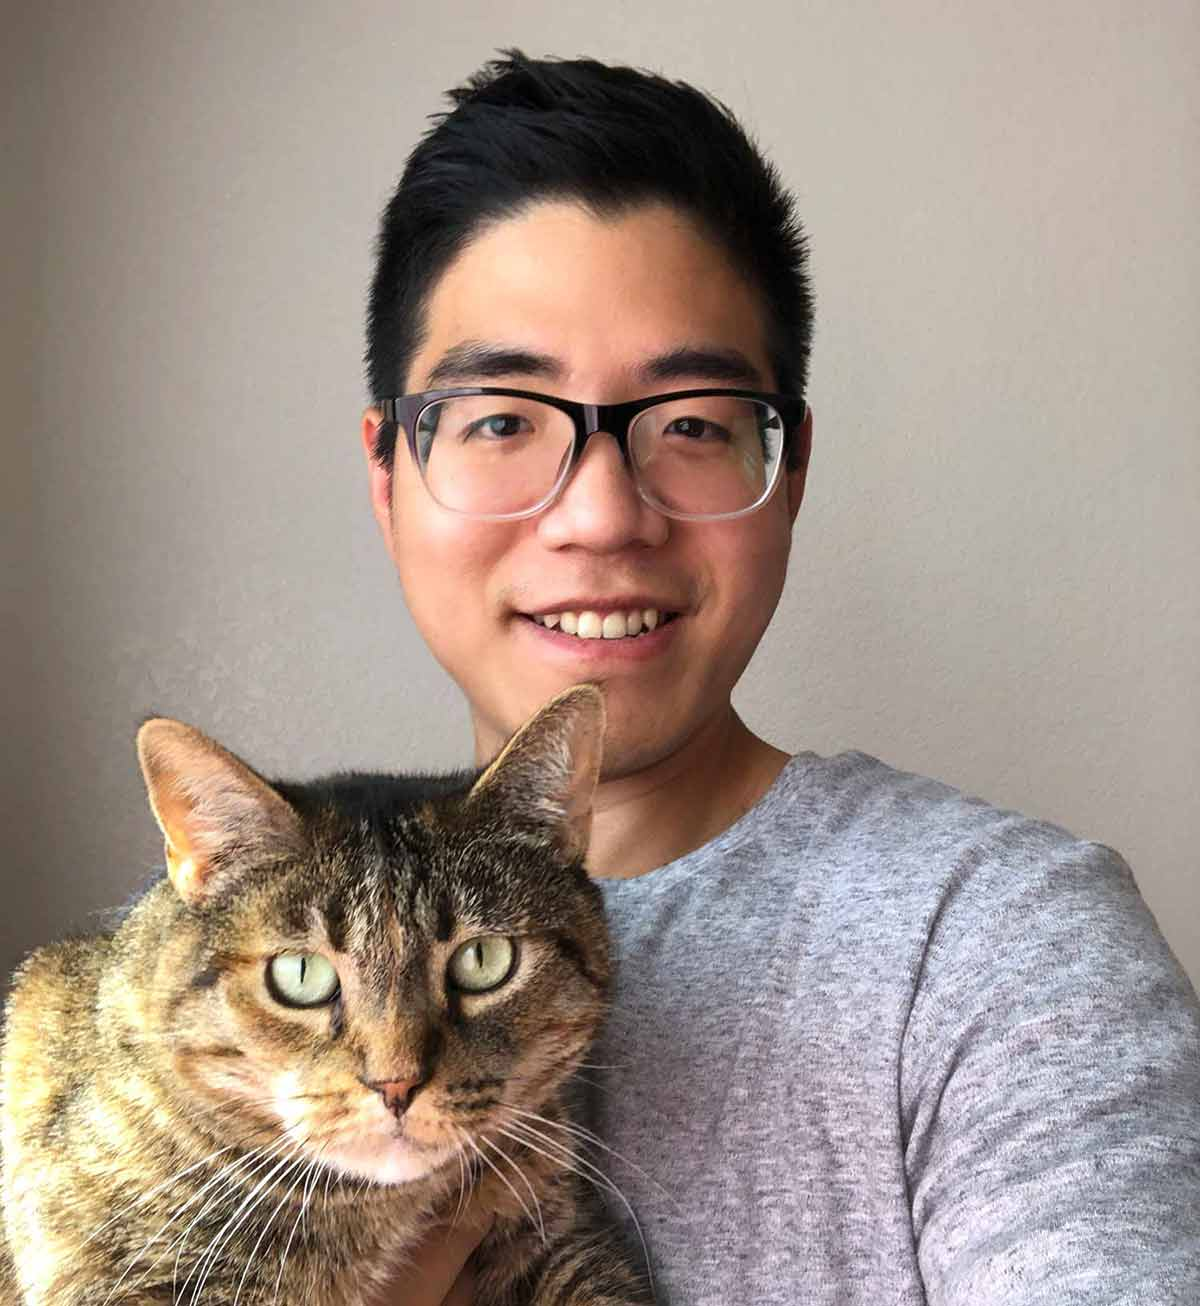
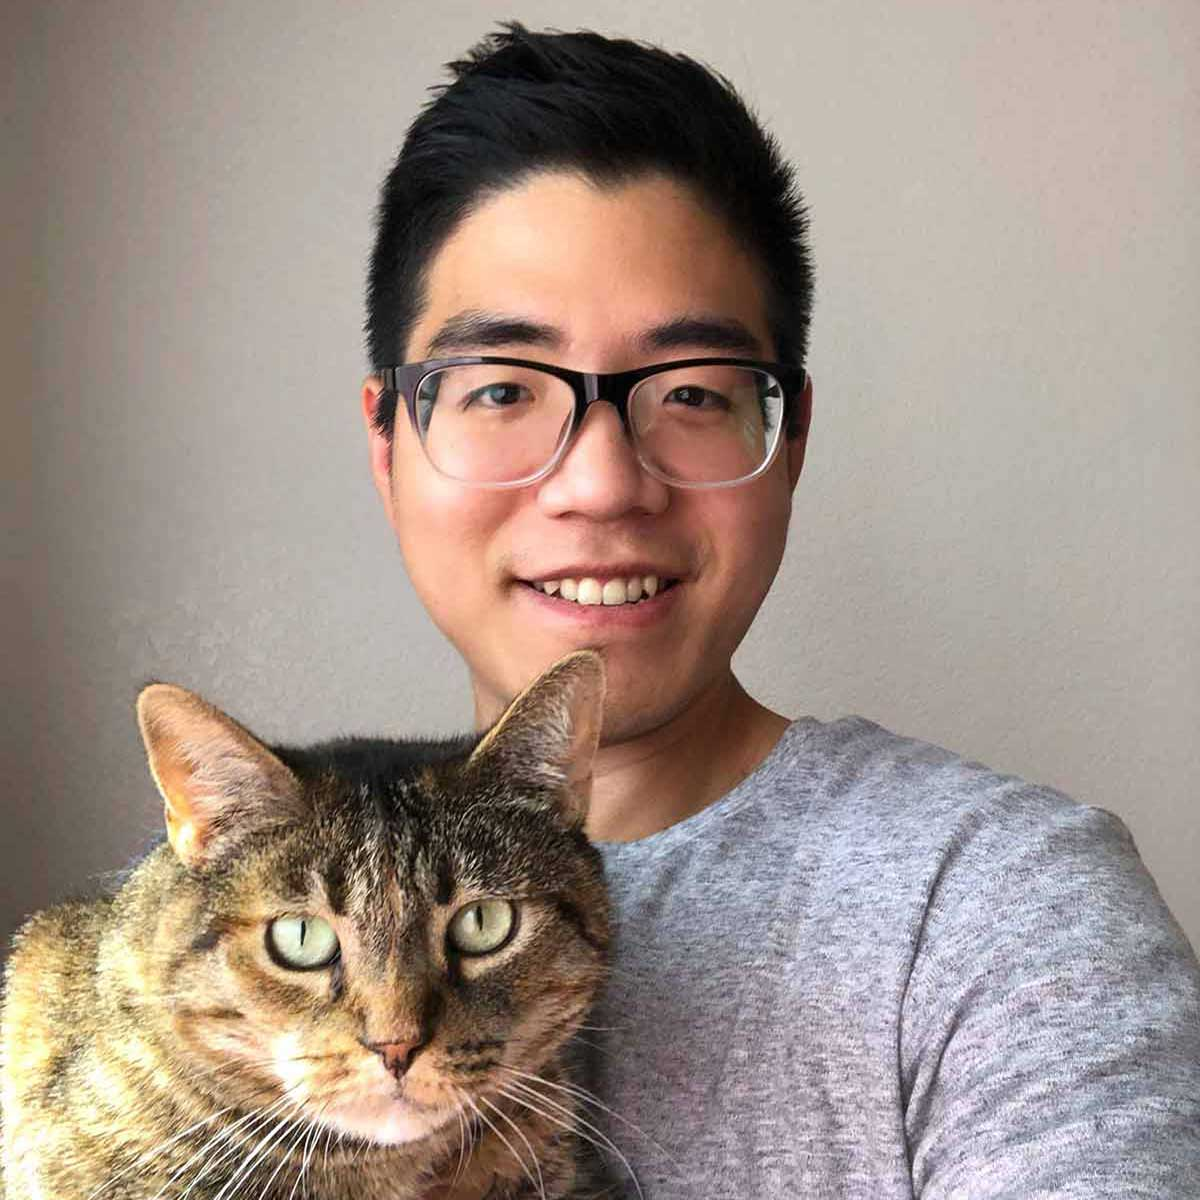
made pictures of same size in students pages

diff --git a/src/assets/articlesStudents.js b/src/assets/articlesStudents.js
@@ -63,7 +63,7 @@ export const articlesStudents = [
     articleCaption2: '',
     articleCaption3: '',
     articleAuthor: '',
-    textCopy: '  <div class="grid-layout"><div class="twocolumns"><div class="half"><h3 class="page-title">Distinguished Master’s Thesis </h3><div class="page-award">Hannaneh Hojaiji</div><div class="page-name">Circuits & Embedded Systems</div><div class="page-text"><i>An Autonomous Monolithic Wearable System for Diurnal Sweat Biomarker Data Acquisition and Analysis</i></div><div class="page-text">Advisor: Professor Sam Emaminejad</div><div class="page-img"><img src="/2020-2021/img/student-Hannaneh-Hojaiji.jpg"></div></div><div class="half"><h3 class="page-title">Distinguished Ph.D. Dissertation</h3><div class="page-award">Yahya Essa</div><div class="page-name">Signals & Systems</div><div class="page-text"><i>Towards Low-Complexity Relay Selection and Scheduling in Wireless Networks</i></div><div class="page-text">Advisor: Prof. Christina Fragouli</div><div class="page-img"><img src="/2020-2021/img/student-Yahya-Essa.jpg"></div></div></div><div class="twocolumns"><div class="half "><h3 class="page-title">Distinguished Ph.D. Dissertation</h3><div class="page-award ">Weiyu Leng</div><div class="page-name ">Circuits & Embedded Systems</div><div class="page-text"><i>Envelope Tracking Supply Modulator with Trellis Search-Based Switching and 160Mhz Capability</i></div><div class="page-text ">Advisor: Professor Asad Abidi</div><div class="page-img "><img src="/2020-2021/img/student-WEIYU_LENG.jpg "></div></div><div class="half"><h3 class="page-title">Distinguished Ph.D. Dissertation</h3><div class="page-award ">Jean Paul Santos</div><div class="page-name ">Physical & Wave Electronics</div><div class="page-text"><i>Direct Antenna Modulation: A Novel Pathway in Developing High Efficiency Bandwidth Electrically Small Antennas</i></div><div class="page-text">Advisor: Professor Y. Ethan Wang</div><div class="page-img"><img src="/2020-2021/img/student-jp-Santos.jpg "></div></div></div><div class="spacer "><img src="/img/pixel.png"></div></div></div>'
+    textCopy: '  <div class="grid-layout"><div class="twocolumns"><div class="half"><h3 class="page-title">Distinguished Master’s Thesis </h3><div class="page-award">Hannaneh Hojaiji</div><div class="page-name">Circuits & Embedded Systems</div><div class="page-text"><i>An Autonomous Monolithic Wearable System for  </br>Diurnal Sweat Biomarker Data Acquisition and Analysis</i></div><div class="page-text">Advisor: Professor Sam Emaminejad</div><div class="page-img"><img src="/2020-2021/img/student-Hannaneh-Hojaiji.jpg"></div></div><div class="half"><h3 class="page-title">Distinguished Ph.D. Dissertation</h3><div class="page-award">Yahya Essa</div><div class="page-name">Signals & Systems</div><div class="page-text"><i>Towards Low-Complexity Relay Selection and  </br> Scheduling in Wireless Networks</i></div><div class="page-text">Advisor: Prof. Christina Fragouli</div><div class="page-img"><img src="/2020-2021/img/student-Yahya-Essa.jpg"></div></div></div><div class="twocolumns"><div class="half "><h3 class="page-title">Distinguished Ph.D. Dissertation</h3><div class="page-award ">Weiyu Leng</div><div class="page-name ">Circuits & Embedded Systems</div><div class="page-text"><i>Envelope Tracking Supply Modulator with Trellis Search-Based  </br>Switching and 160Mhz Capability</i></div><div class="page-text ">Advisor: Professor Asad Abidi</div><div class="page-img "><img src="/2020-2021/img/student-WEIYU_LENG.jpg "></div></div><div class="half"><h3 class="page-title">Distinguished Ph.D. Dissertation</h3><div class="page-award ">Jean Paul Santos</div><div class="page-name ">Physical & Wave Electronics</div><div class="page-text"><i>Direct Antenna Modulation: A Novel Pathway in Developing  </br> High Efficiency Bandwidth Electrically Small Antennas</i></div><div class="page-text">Advisor: Professor Y. Ethan Wang</div><div class="page-img"><img src="/2020-2021/img/student-jp-Santos.jpg "></div></div></div><div class="spacer "><img src="/img/pixel.png"></div></div></div>'
   },
 
   {

diff --git a/src/assets/html-students.html b/src/assets/html-students.html
@@ -32,7 +32,7 @@
       <h3 class="page-title">Distinguished Master’s Thesis</h3>
       <div class="page-award">Hannaneh Hojaiji</div>
       <div class="page-name">Circuits & Embedded Systems</div>
-      <div class="page-text"><i>"An Autonomous Monolithic Wearable System for Diurnal Sweat Biomarker Data Acquisition
+      <div class="page-text"><br>"An Autonomous Monolithic Wearable System for </br>Diurnal Sweat Biomarker Data Acquisition
         and Analysis"</i></div>
       <div class="page-text">Advisor: Professor Sam Emaminejad</div>
       <div class="page-img"><img src="/2020-2021/img/student-Hannaneh-Hojaiji.jpg"></div>
@@ -41,7 +41,7 @@
       <h3 class="page-title">Distinguished Ph.D. Dissertation</h3>
       <div class="page-award">Yahya Essa</div>
       <div class="page-name">Signals & Systems</div>
-      <div class="page-text"><i>Towards Low-Complexity Relay Selection and Scheduling in Wireless Networks</i></div>
+      <div class="page-text"><i>Towards Low-Complexity Relay Selection and  </br>Scheduling in Wireless Networks</i></div>
       <div class="page-text">Advisor: Prof. Christina Fragouli</div>
       <div class="page-img"><img src="/2020-2021/img/student-Yahya-Essa.jpg"></div>
     </div>
@@ -51,7 +51,7 @@
       <h3 class="page-title">Distinguished Ph.D. Dissertation</h3>
       <div class="page-award ">Weiyu Leng</div>
       <div class="page-name ">Circuits & Embedded Systems</div>
-      <div class="page-text"><i>Envelope Tracking Supply Modulator with Trellis Search-Based Switching and 160Mhz Capability</i></div>
+      <div class="page-text"><i>Envelope Tracking Supply Modulator with Trellis Search-Based  </br>Switching and 160Mhz Capability</i></div>
       <div class="page-text ">Advisor: Professor Asad Abidi</div>
       <div class="page-img "><img src="/2020-2021/img/student-WEIYU_LENG.jpg "></div>
     </div>
@@ -59,7 +59,7 @@
       <h3 class="page-title">Distinguished Ph.D. Dissertation</h3>
       <div class="page-award ">Jean Paul Santos</div>
       <div class="page-name ">Physical & Wave Electronics</div>
-      <div class="page-text"><i>Direct Antenna Modulation: A Novel Pathway in Developing High Efficiency Bandwidth Electrically Small Antennas</i></div>
+      <div class="page-text"><i>Direct Antenna Modulation: A Novel Pathway in Developing High  </br>Efficiency Bandwidth Electrically Small Antennas</i></div>
       <div class="page-text">Advisor: Professor Y. Ethan Wang</div>
       <div class="page-img"><img src="/2020-2021/img/student-jp-Santos.jpg "></div>
     </div>

diff --git a/src/containers/Home.js b/src/containers/Home.js
@@ -10,7 +10,7 @@ function usePanel(active) {
     if (!ref.current || !active) {
       return;
     }
-    console.log('React usePanel useEffect ref:', ref)
+    // console.log('React usePanel useEffect ref:', ref)
 
     const state = {
       rect: undefined,
@@ -109,12 +109,9 @@ function Home() {
   return(
     <div className="content-area">
       <div className="panelsContainer">
-        {console.log('home content-area panelsContainer data.panels:', data.panels)}
-        {console.log('home content-area panelsContainer state.panelIndex:', state)}
 
           {data.panels.map((panel, i) => {
             let offset = data.panels.length + (state.panelIndex - i)+ 1;
-            {console.log('home inside map panel i:', panel)}
             return (
                 <Panel
                   panel={panel}

diff --git a/src/components/Bubble.js b/src/components/Bubble.js
@@ -36,7 +36,7 @@ class Bubble extends Component{
             />
           </div >
           <div className="bubble-text-link">
-            <div className={`bubble-text ${activeClassNameCheck}`}>{bubbleTextOne} </div>
+            <div className={`bubble-text ${activeClassNameCheck}`}>{ReactHtmlParser(bubbleTextOne)} </div>
             <div className={`bubble-text ${activeClassNameCheck}`}>{bubbleTextTwo}</div>
             <div className={`bubble-text ${activeClassNameCheck}`}>{bubbleTextThree}</div>
           </div>

diff --git a/src/scss/grid-layout.scss b/src/scss/grid-layout.scss
@@ -75,14 +75,14 @@
   }
 
   .page-img{
-    // display: grid;
-    // grid-template-columns: 1fr;
+    display: grid;
+    grid-template-columns: 1fr;
     text-indent: 0;
     overflow: hidden;
+    width: 450px;
+    height: 550px;
 
     img{
-      width: 450px;
-      height: 550px;
       object-position: 50% 50%;
       object-fit: contain;
     }

diff --git a/src/components/Article.js b/src/components/Article.js
@@ -101,6 +101,7 @@ class Article extends Component{
 
         <div className={`${creditsClassName} ${articleId}`}>
           <p className={imgCreditClassName}>{articleImageCred}</p>
+          <p className={authorCreditClassName}>{authorCreditClassName}</p>
         </div>
 
       </div>

diff --git a/src/scss/grid-cards.scss b/src/scss/grid-cards.scss
@@ -92,7 +92,8 @@
       }
 
       &:hover {
-        box-shadow: 0 4px 8px 0 rgba(0,0,0,0.3);
+        transition: all 0.3s ease-in-out;
+        box-shadow: 0 4px 12px 0 rgba(0,0,0,0.5);
       }
     }
 
